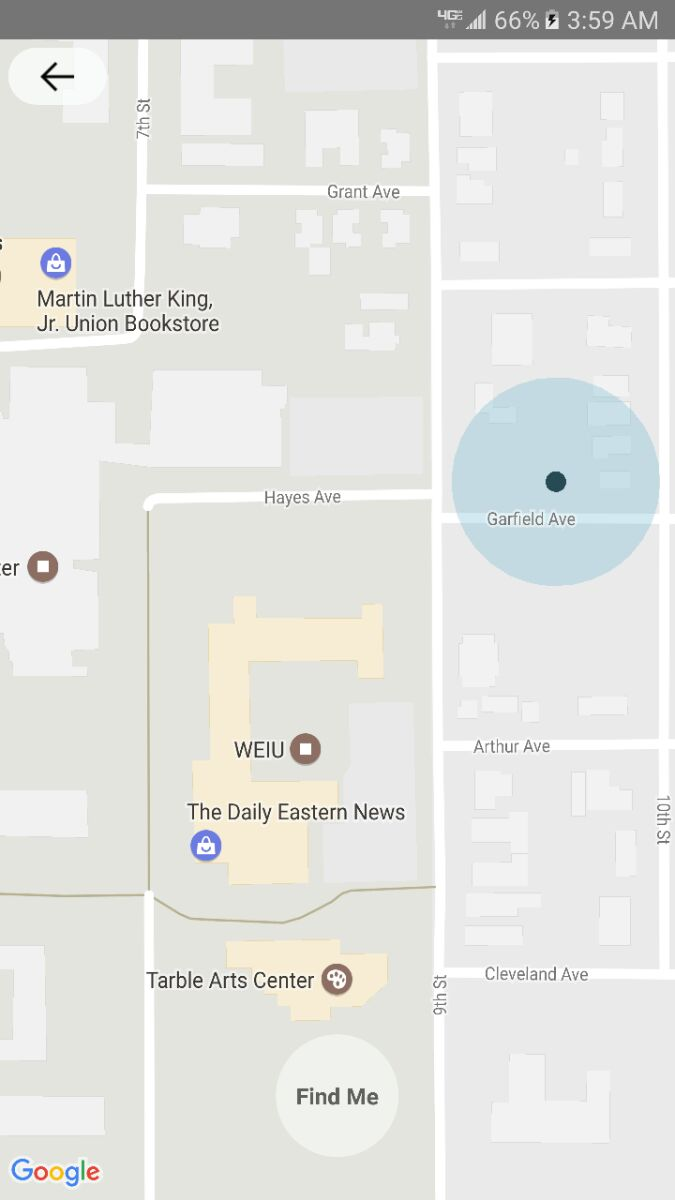
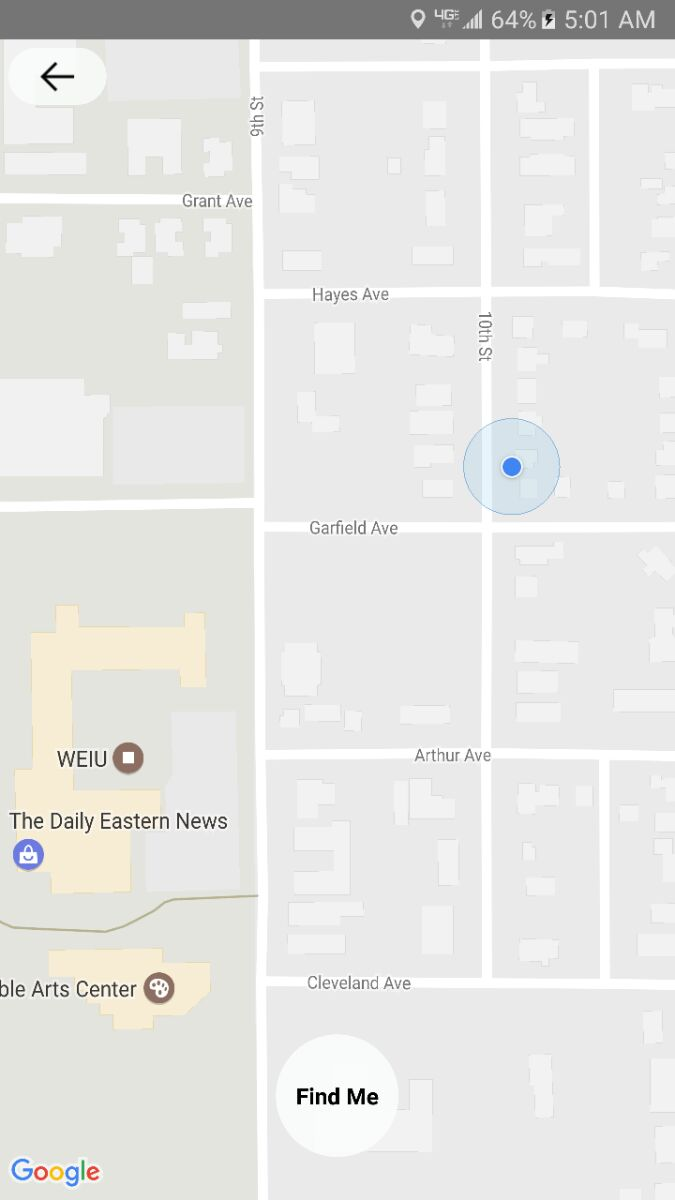
Update

diff --git a/CharlestonMapped/app/components/Map/Map.js b/CharlestonMapped/app/components/Map/Map.js
@@ -23,8 +23,8 @@ export default class TheMap extends Component {
           longitudeDelta: 0.001
         },
         newLocation: false,
-        innerRadius: 5,
-        outerRadius: 50,
+        //innerRadius: 5,
+        //outerRadius: 50,
       }
   }
   _navigate(property){
@@ -51,7 +51,7 @@ export default class TheMap extends Component {
       },
       (error) => alert('Error: Are location services on?'),
       //(error) => alert(JSON.stringify(error)),
-      //{enableHighAccuracy: true}
+      {enableHighAccuracy: true}
     )
   }
   onPressMarker (markerData) {
@@ -94,7 +94,7 @@ export default class TheMap extends Component {
           })
         },
         (error) => alert('Error: Are location services on?'),
-        //{enableHighAccuracy: true}
+        {enableHighAccuracy: true}
       );
       this.watchID = navigator.geolocation.watchPosition(
         ({coords}) => {
@@ -164,37 +164,23 @@ export default class TheMap extends Component {
         <MapView
           style={styles.map}
           region={this.state.region}
+          showsUserLocation={true}
+          followsUserLocation={true}
         >
-          {this.state.position && (
-            <MapView.Circle
-              center={this.state.position}
-              radius={this.state.outerRadius}
-              showsUserLocation={true}
-              strokeColor={'transparent'}
-              fillColor={'rgba(112,185,213,0.30)'}
-            />
-          )}
-          {this.state.position && (
-            <MapView.Circle
-              center={this.state.position}
-              radius={this.state.innerRadius}
-              strokeColor={'transparent'}
-              fillColor={'rgba(11,48,60,0.84)'}
-            />
-          )}
           {markers.map(marker => (
             <MapView.Marker
-              key={marker.uniqueId}
+              key={marker.key}
               coordinate={{
-                latitude: marker.latitude,
-                longitude: marker.longitude
+                latitude: marker.lat,
+                longitude: marker.long
               }}
               title={marker.title}
-              description={marker.desc}
+              desc={marker.desc}
             >
             <MapView.Callout>
               <View>
-                <Text>This is a plain view</Text>
+                <Text>{this.title}</Text>
+                <Text>{this.desc}</Text>
               </View>
             </MapView.Callout>
             </MapView.Marker>
